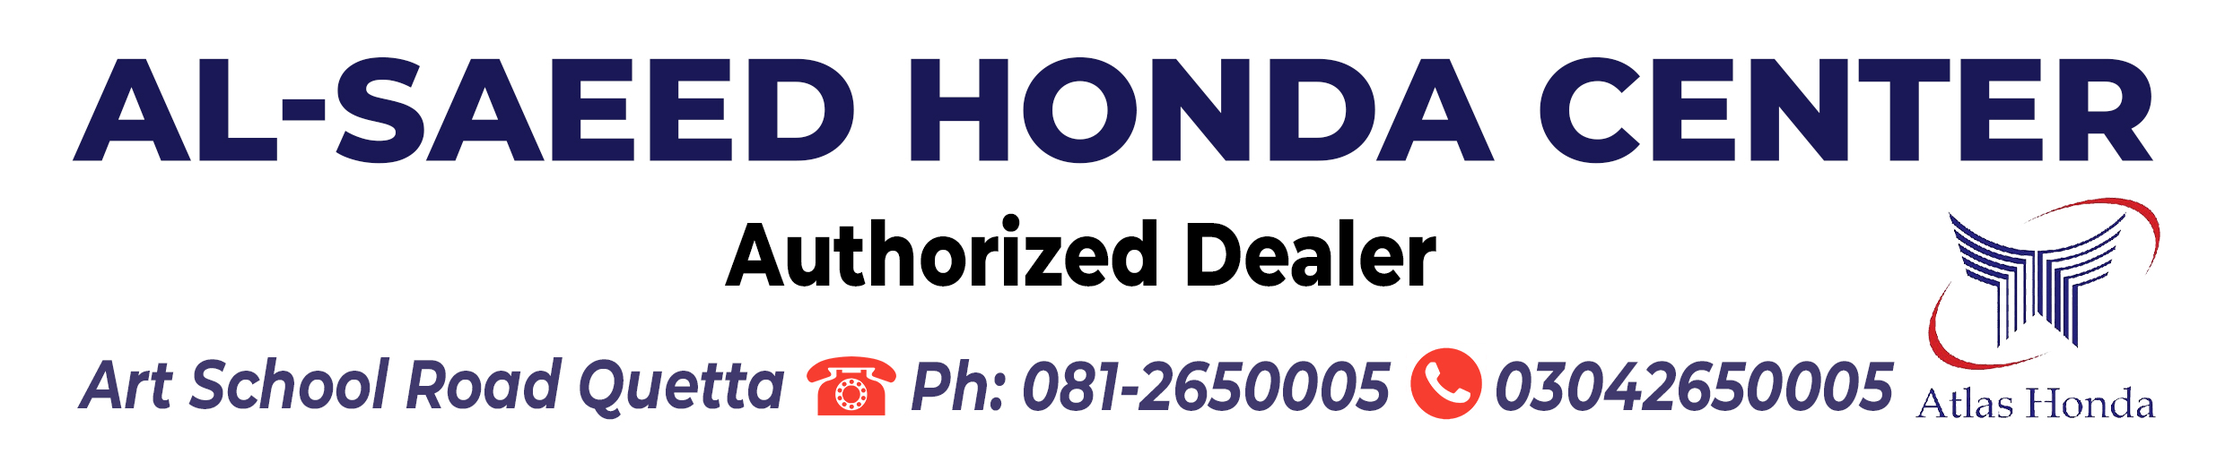
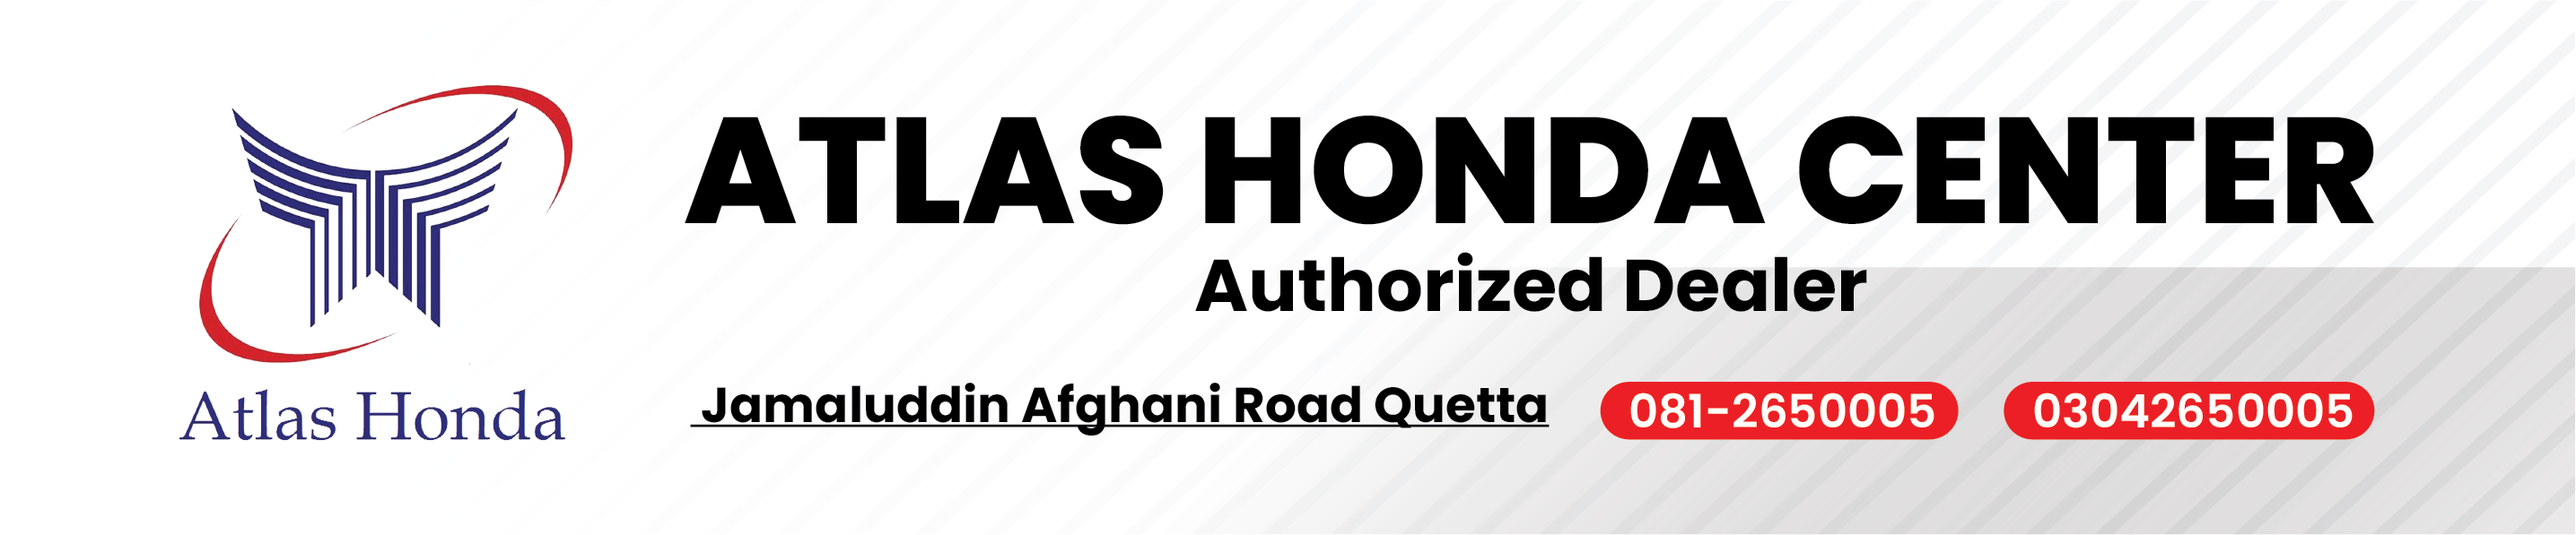
changes done

diff --git a/resources/views/sale/print.blade.php b/resources/views/sale/print.blade.php
@@ -71,9 +71,9 @@
     <div class="main" id="main">
         <div style="text-align: center;">
            {{--  <img style="width:100%;margin:0 auto;height:100px;" src="{{ asset('assets/images/header.jpg') }}" alt=""> --}}
-           <h2 style="font-family: Cambria;  margin:0;" >AL-SAEED HONDA CENTER</h2>
+           <h2 style="font-family: Cambria;  margin:0;" >ATLAS HONDA CENTER</h2>
            <h3 style="font-family: Cambria;  margin:0;" >Authorized Dealer</h3>
-           <h5 style="font-family: Cambria;  margin:0;" >Art School Road Quetta | 081-2650005 | 0304-2650005</h5>
+           <h5 style="font-family: Cambria;  margin:0;" >Jamaluddin Afghani Road, Quetta <br> 081-2650005 | 0304-2650005</h5>
          </div>
         <div class="header">
            {{--  <p class="text-center"><strong>081-2502481</strong></p>

diff --git a/resources/views/layout/header.blade.php b/resources/views/layout/header.blade.php
@@ -125,7 +125,7 @@
                       <a class="dropdown-item" href="{{url('/purchase/history')}}">{{ __('lang.PurchaseHistory') }}</a>
                       <a class="dropdown-item" href="{{route('purchasePendings')}}">Pending Purchases</a>
                       <a class="dropdown-item" href="{{ url('/stock') }}">{{ __('lang.StockDetail') }}</a>
-                      {{-- <a class="dropdown-item" href="{{ url('/stocktransfer') }}">Stock Transfer</a> --}}
+                      <a class="dropdown-item" href="{{ url('/stocktransfer') }}">Stock Transfer</a>
                     </div>
                   </li>
                 <li class="nav-item dropdown">
